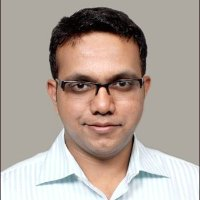
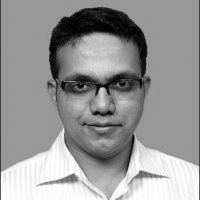
Greyscaled speaker photos, changed pune hacknight date

diff --git a/templates/data/runup-events.html b/templates/data/runup-events.html
@@ -20,7 +20,14 @@
       , 'timeline'  : 'upcoming'
       , 'venue' : 'Hyderabad'
       , 'blurb' : 'Android UI/UX Hacknight'
-    }   
+    }    
+    , {
+        'title' : 'Droidcon Hacknight'
+      , 'date'  : 'October 26 - 27'
+      , 'timeline'  : 'upcoming'
+      , 'venue' : 'Pune'
+      , 'blurb' : 'Details coming soon..'
+    }  
     , {
         'title' : 'Android Developer Workshop'
       , 'date'  : 'October 25 - 27'
@@ -44,13 +51,6 @@
       , 'venue' : 'Cochin'
       , 'link'  : 'https://hacknight.in/droidconin/2013-cochin'
       , 'blurb' : 'Come on over with your android app ideas in mind and build them overnight!'
-    }
-    , {
-        'title' : 'Droidcon Hacknight'
-      , 'date'  : 'October 19 - 20'
-      , 'timeline'  : 'upcoming'
-      , 'venue' : 'Pune'
-      , 'blurb' : 'Details coming soon..'
     }
     , {
         'title' : 'Droidcon & JSFoo Hackday'

diff --git a/templates/data/program-committee.html b/templates/data/program-committee.html
@@ -31,7 +31,7 @@
         'id'    : 'rahul'
       , 'name' : 'Rahul Gonsalves'
       , 'title' : 'UX track'
-      , 'designation': 'UnCommon'
+      , 'designation': 'Uncommon'
       , 'link'  : 'https://twitter.com/gonsalves_r'
       , 'twitter' : 'gonsalves_r'
       , 'photo' : theme_static('img/program-committee/Rahul_Gonsalves.jpg')
